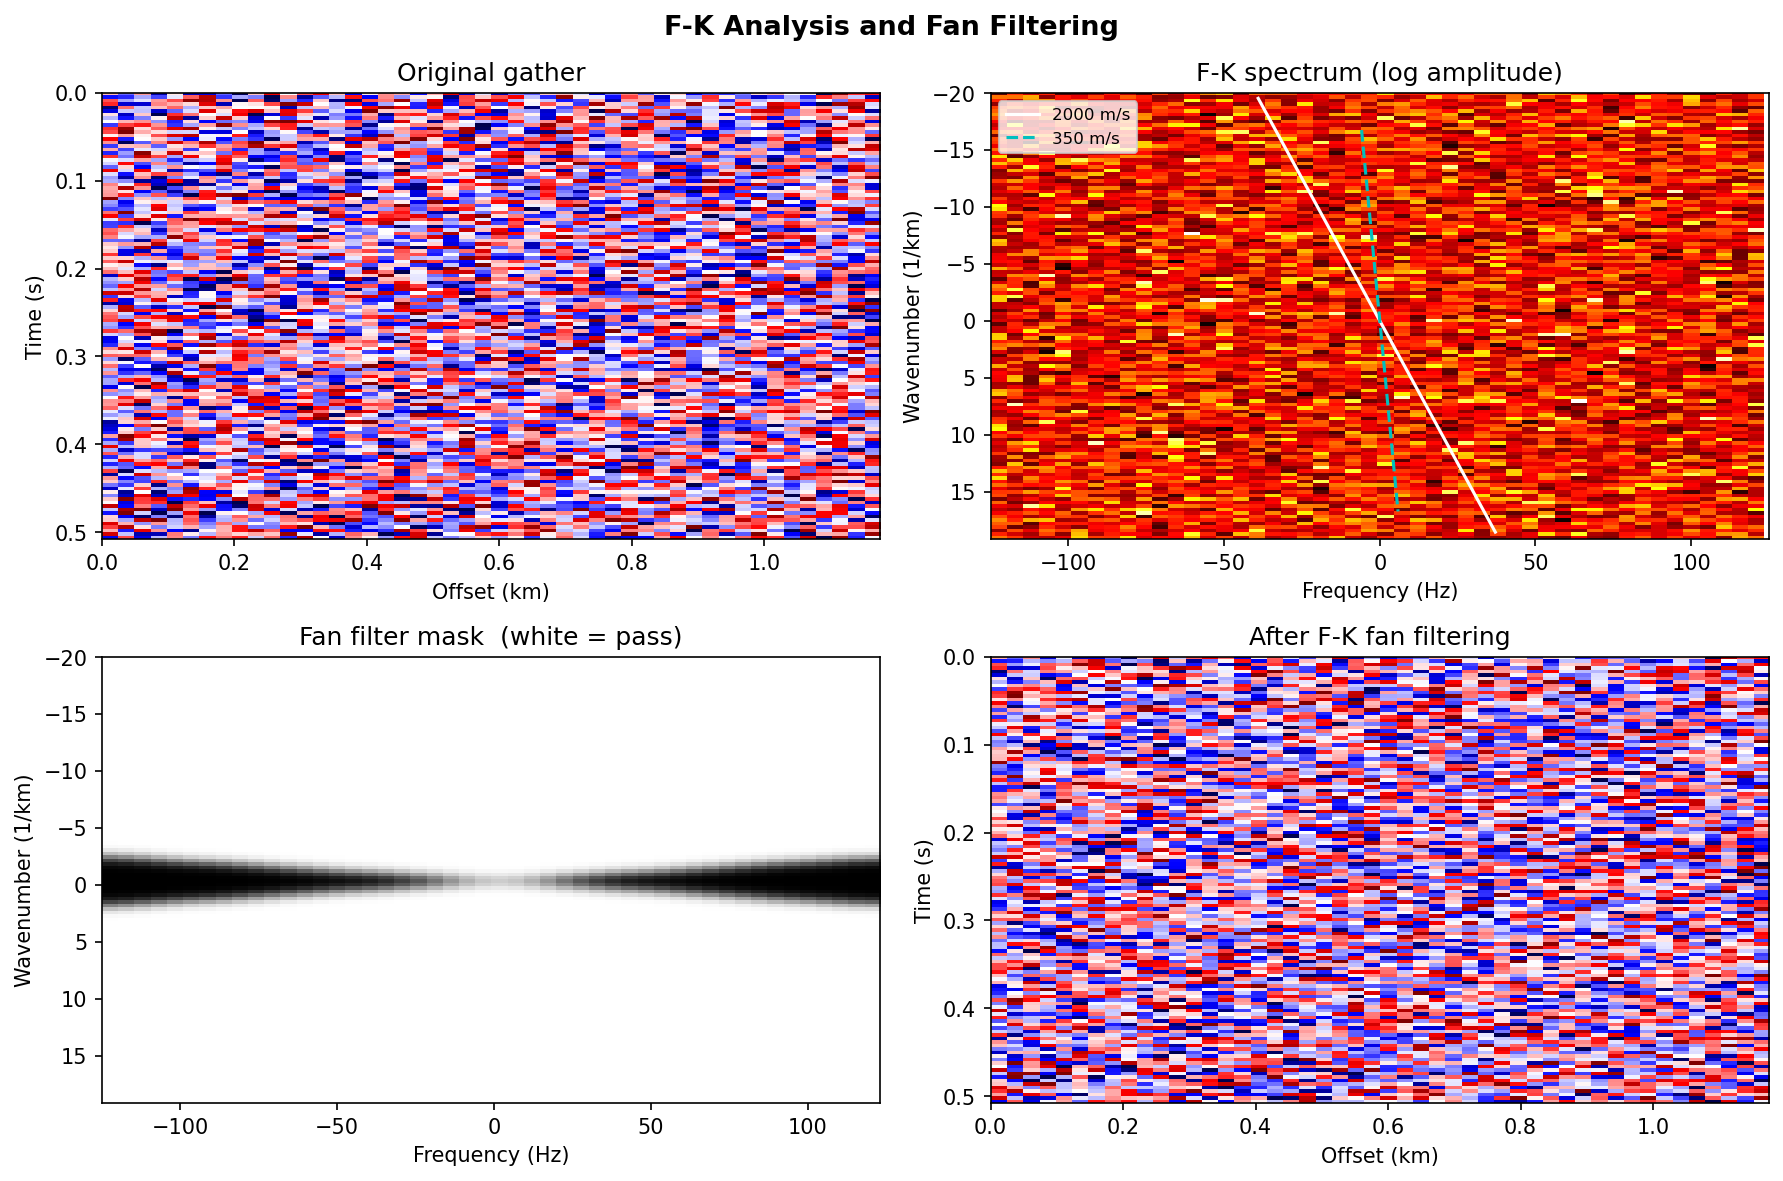
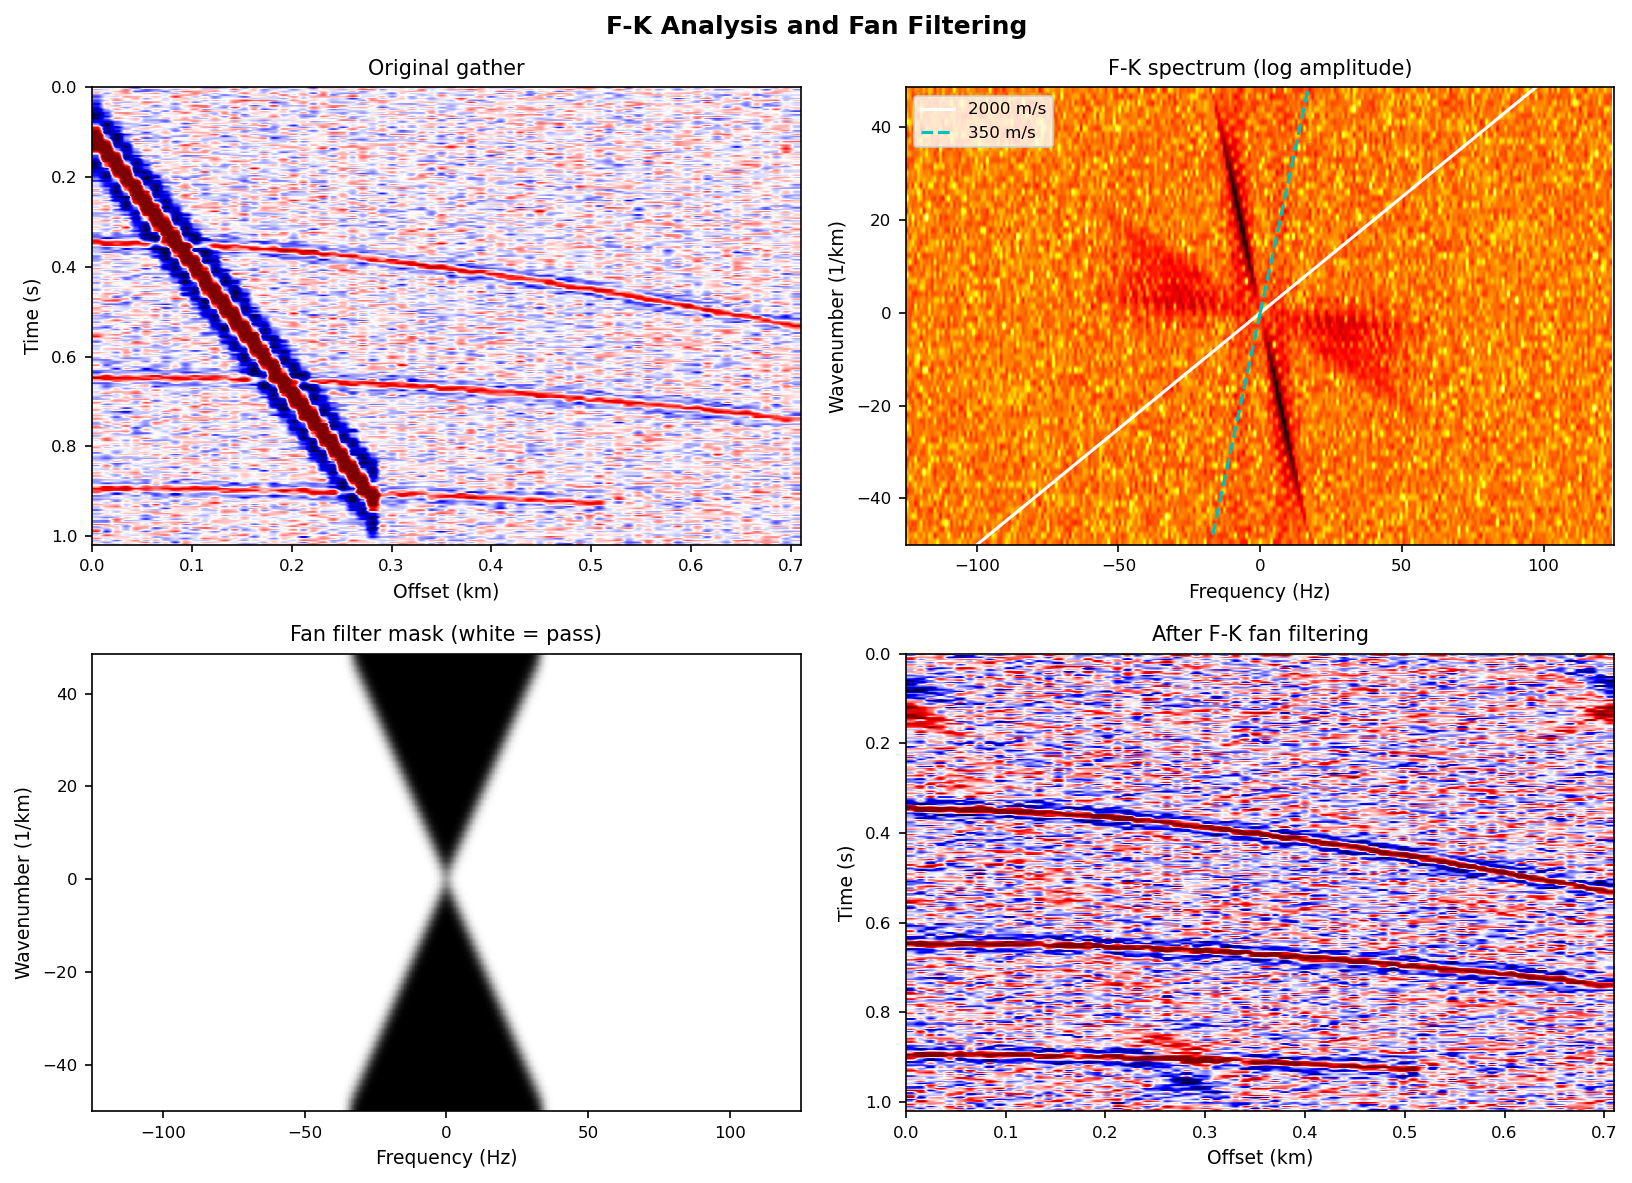
Fix rendering bugs: boldsymbol MathJax, figure generation errors
- mathjax.js: explicitly load boldsymbol and ams packages via loader.load
  so \boldsymbol renders correctly across all browsers
- sw_dispersion.png: replace steep tanh dispersion curve with Lorentzian
  c(f)=VR1+(VR2-VR1)/(1+(f/f_t)^2); group velocity U now has positive
  minimum (~138 m/s) instead of going unphysically negative
- fk_analysis.png: fix synthetic data generation (wav_len=48 << nt=256
  so events are actually inserted); dx=10m avoids spatial aliasing of
  350m/s surface wave; correct F-K imshow orientation (origin=lower,
  no erroneous transpose); velocity lines placed correctly in (f,k) space
- radon_transform.png: rebuild with proper hyperbolic-moveout CMP gather
  and frequency-domain L2/IRLS Radon; L2 smearing vs sparse focusing
  is now clearly visible
- surface-coda.md / fk-radon.md: update Python example code to match

diff --git a/docs/assets/javascripts/mathjax.js b/docs/assets/javascripts/mathjax.js
@@ -1,9 +1,13 @@
 window.MathJax = {
+  loader: {
+    load: ['[tex]/boldsymbol', '[tex]/ams']
+  },
   tex: {
     inlineMath: [["\\(", "\\)"]],
     displayMath: [["\\[", "\\]"]],
     processEscapes: true,
-    processEnvironments: true
+    processEnvironments: true,
+    packages: {'[+]': ['boldsymbol', 'ams']}
   },
   options: {
     ignoreHtmlClass: ".*|",

diff --git a/docs/fk-radon.md b/docs/fk-radon.md
@@ -277,42 +277,53 @@ import numpy as np
 import matplotlib.pyplot as plt
 from scipy.ndimage import gaussian_filter
 
-dt = 0.004; dx = 25.0
-nt = 128;   nx = 48
-t = np.arange(nt)*dt
-x = np.arange(nx)*dx
+# dx=10 m 保证 350 m/s 面波在 17.5 Hz 以下不出现空间假频
+dt = 0.004; dx = 10.0
+nt = 256;   nx = 72
+t = np.arange(nt)*dt     # 0…1.02 s
+x = np.arange(nx)*dx     # 0…710 m
 
-def ricker(f, dt, nt):
-    tc = np.arange(nt)*dt - nt*dt/4
-    return (1 - 2*(np.pi*f*tc)**2) * np.exp(-(np.pi*f*tc)**2)
+wav_len = 48  # 短子波（0.192 s），远小于 nt，确保事件可写入
+
+def ricker(f0, dt, n):
+    tc = np.arange(n)*dt - n*dt/2
+    return (1 - 2*(np.pi*f0*tc)**2) * np.exp(-(np.pi*f0*tc)**2)
+
+wav_P  = ricker(30.0, dt, wav_len)
+wav_SW = ricker(7.0,  dt, wav_len)
 
 # 构建含噪道集
 data = np.zeros((nx, nt))
-wav_P  = ricker(40.0, dt, nt)
-wav_SW = ricker(8.0,  dt, nt)
-for t0 in [0.08, 0.22, 0.36]:
+for t0, v_int in [(0.25, 2000.), (0.55, 2100.), (0.80, 2200.)]:
     for ix, xi in enumerate(x):
-        it = int((t0 + xi/2000.0) / dt)
-        if 0 < it < nt - len(wav_P):
-            data[ix, it:it+len(wav_P)] += wav_P
+        it = int(round(np.sqrt(t0**2 + (xi/v_int)**2) / dt))
+        if 0 <= it <= nt - wav_len:
+            data[ix, it:it+wav_len] += wav_P * np.exp(-it*dt*0.4)
 for ix, xi in enumerate(x):
-    it = int((0.02 + xi/350.0) / dt)
-    if 0 < it < nt - len(wav_SW):
-        data[ix, it:it+len(wav_SW)] += 2.8 * wav_SW
+    it = int(round((0.02 + xi/350.) / dt))
+    if 0 <= it <= nt - wav_len:
+        data[ix, it:it+wav_len] += 3.0 * wav_SW
+data += 0.06 * np.abs(data).max() * np.random.default_rng(42).standard_normal(data.shape)
 
-# 2D FFT
+# 2D FFT：FK 形状 (nx, nt) = (k 轴, f 轴)
 FK   = np.fft.fftshift(np.fft.fft2(data))
 f_ax = np.fft.fftshift(np.fft.fftfreq(nt, dt))
-k_ax = np.fft.fftshift(np.fft.fftfreq(nx, dx))
-KK, FF = np.meshgrid(k_ax, f_ax, indexing='ij')
+k_ax = np.fft.fftshift(np.fft.fftfreq(nx, dx))      # 1/m
+KK, FF = np.meshgrid(k_ax, f_ax, indexing='ij')     # 均为 (nx, nt)
 
 # 扇形滤波器（|v_app| > 700 m/s）
-eps = 1e-9
+eps   = 1e-9
 v_app = np.abs(FF / (KK + eps))
-mask  = np.where((np.abs(KK) < eps) | (v_app >= 700.0), 1.0, 0.0)
+mask  = np.where((np.abs(KK) < eps) | (v_app >= 700.), 1.0, 0.0)
 mask  = gaussian_filter(mask.astype(float), sigma=1.5)   # 平滑边界
 
 data_filt = np.real(np.fft.ifft2(np.fft.ifftshift(FK * mask)))
+
+# 绘制 F-K 谱（注意：FK 形状 (nx,nt)，直接 imshow 不需转置）
+fk_amp = np.log10(np.abs(FK) + 1)
+plt.imshow(fk_amp, aspect='auto', cmap='hot_r', origin='lower',
+           extent=[f_ax[0], f_ax[-1], k_ax[0]*1e3, k_ax[-1]*1e3])
+plt.xlabel('Frequency (Hz)'); plt.ylabel('Wavenumber (1/km)')
 ```
 
 ### 高分辨率 Radon（IRLS，频域）

diff --git a/docs/surface-coda.md b/docs/surface-coda.md
@@ -240,19 +240,24 @@ from scipy.signal import correlate, correlation_lags
 # ── 图 1：面波频散曲线与深度灵敏度核 ─────────────────────
 fig, axes = plt.subplots(1, 2, figsize=(12, 5))
 
-f = np.linspace(1, 50, 300)
+f = np.linspace(0.5, 50, 600)
 Vs1, Vs2 = 200.0, 600.0
 VR1, VR2 = Vs1 * 0.919, Vs2 * 0.919
 h = 20.0  # 第一层厚度 (m)
 f_trans = (VR1 + VR2) / 2 / (2 * h)
-c_ph = VR1 + (VR2 - VR1) * 0.5 * (1 - np.tanh(np.log(np.maximum(f / f_trans, 1e-6)) * 1.4))
-U    = c_ph + f * np.gradient(c_ph, f)
+# Lorentzian 过渡：U(f) = VR1 + (VR2-VR1)*(1-x²)/(1+x²)²，恒正
+x    = f / f_trans
+c_ph = VR1 + (VR2 - VR1) / (1 + x**2)
+U    = VR1 + (VR2 - VR1) * (1 - x**2) / (1 + x**2)**2
 
 ax = axes[0]
+ax.fill_between(f, U, c_ph, where=(c_ph >= U), alpha=0.15, color='#3498db',
+                label='c − U (dispersion zone)')
 ax.plot(f, c_ph, color='#3498db', lw=2.5, label='Phase velocity $c(f)$')
 ax.plot(f, U,    color='#e74c3c', lw=2.5, ls='--', label='Group velocity $U(f)$')
 ax.set(xlabel='Frequency (Hz)', ylabel='Velocity (m/s)',
-       title='Rayleigh Wave Dispersion Curve\n(2-layer: soft over hard)', xlim=[1, 50])
+       title='Rayleigh Wave Dispersion Curve\n(2-layer: soft over hard)',
+       xlim=[0.5, 50], ylim=[0, VR2 * 1.12])
 ax.legend(fontsize=9); ax.grid(True, alpha=0.3)
 
 z = np.linspace(0, 120, 400)
@@ -260,9 +265,9 @@ ax = axes[1]
 for fi, col in zip([5, 15, 30, 50], ['#2ecc71', '#3498db', '#e67e22', '#e74c3c']):
     idx = np.argmin(np.abs(f - fi))
     z_pk = c_ph[idx] / (3 * fi)
-    K = np.exp(-(z - z_pk)**2 / (2 * (z_pk * 0.55)**2))
+    K = np.exp(-(z - z_pk)**2 / (2 * (max(z_pk * 0.55, 1.0))**2))
     ax.plot(K / K.max(), z, color=col, lw=2.2, label=f'{fi} Hz (peak ≈ {z_pk:.0f} m)')
-ax.set(xlabel='Normalised sensitivity', ylabel='Depth (m)',
+ax.set(xlabel='Normalised sensitivity $\\partial c/\\partial V_S(z)$', ylabel='Depth (m)',
        title='Depth Sensitivity Kernels\n(Rayleigh, fundamental mode)',
        ylim=[120, 0])
 ax.legend(fontsize=9, loc='lower right'); ax.grid(True, alpha=0.3)
